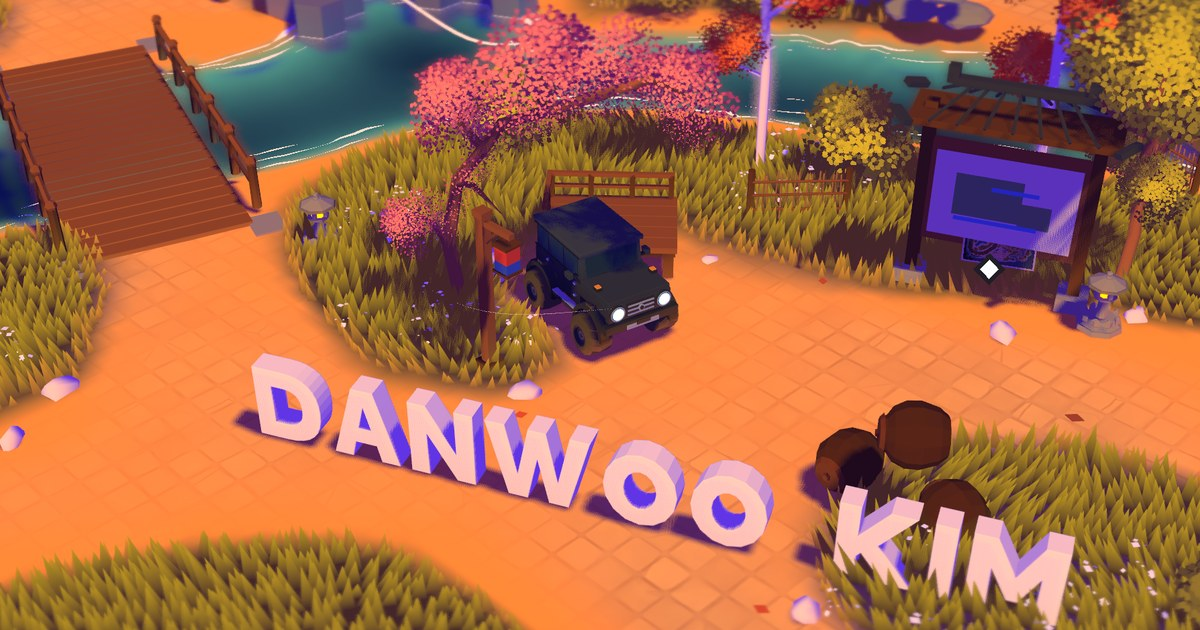
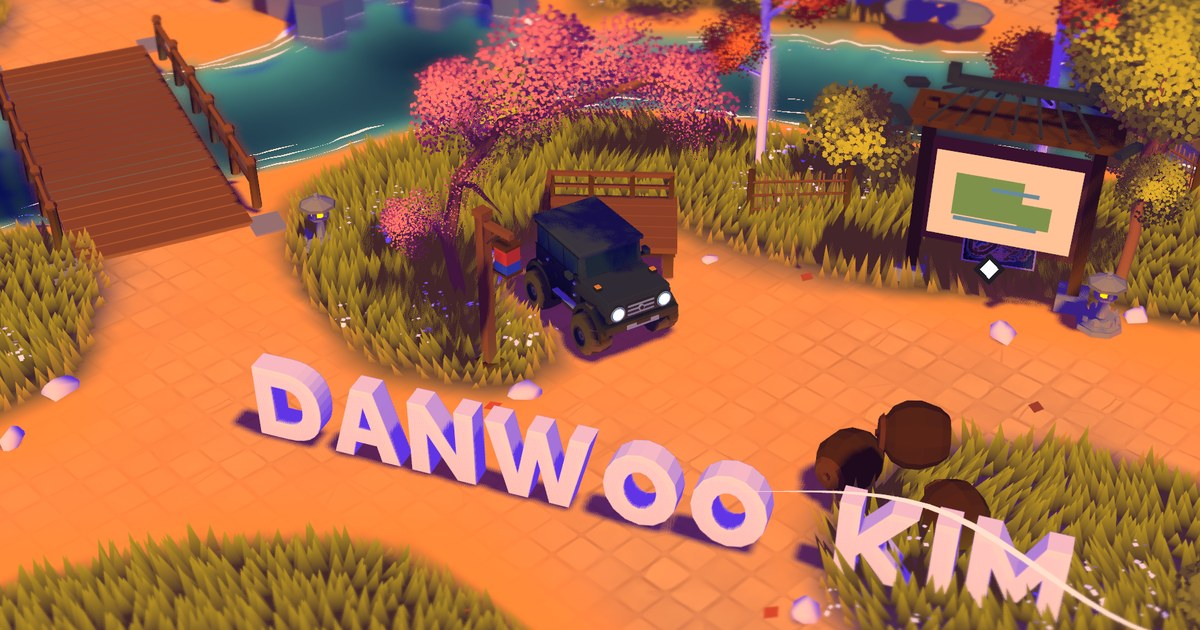
feat(danwoo-island): 허브 등록·한글화·에셋 경량화 (#305)
* feat(hub): 프로젝트 목록에 Danwoo Island 추가

* chore(danwoo-island): 쓰지 않는 월드 에셋을 동기화에서 제외 — wav 원본·압축본 중복·원본 포트폴리오 이미지, 204MB→44MB

* feat(danwoo-island): 메뉴·조작법·지도·월드 표지 문구를 한글로

* chore(danwoo-island): OG 이미지를 게시판 수정 후 장면으로 교체

diff --git a/apps/danwoo-island/src/views/drive/config/controls.ts b/apps/danwoo-island/src/views/drive/config/controls.ts
@@ -13,37 +13,37 @@ export type GamepadControl =
   | { kind: 'shared'; key: string; action: string };
 
 export const KEYBOARD_CONTROLS: readonly KeyControl[] = [
-  { keys: ['WASD', 'ARROWS'], joiner: ' or ', action: 'Move around' },
-  { keys: ['SHIFT'], joiner: '', action: 'Boost' },
-  { keys: ['CTRL LEFT', 'B'], joiner: ' or ', action: 'Brake' },
-  { keys: ['SPACE'], joiner: '', action: 'Jump' },
-  { keys: ['ENTER'], joiner: '', action: 'Interact' },
-  { keys: ['M'], joiner: '', action: 'Map' },
-  { keys: ['L'], joiner: '', action: 'Mute' },
-  { keys: ['R'], joiner: '', action: 'Respawn' },
-  { keys: ['NUM KEYS', 'NUM PAD'], joiner: '/', action: 'Activate hydraulics' },
-  { keys: ['LEFT CLICK (DRAG)'], joiner: '', action: 'Move camera' },
-  { keys: ['H'], joiner: '', action: 'Honk' },
+  { keys: ['WASD', '방향키'], joiner: ' 또는 ', action: '이동' },
+  { keys: ['SHIFT'], joiner: '', action: '부스트' },
+  { keys: ['왼쪽 CTRL', 'B'], joiner: ' 또는 ', action: '브레이크' },
+  { keys: ['SPACE'], joiner: '', action: '점프' },
+  { keys: ['ENTER'], joiner: '', action: '상호작용' },
+  { keys: ['M'], joiner: '', action: '지도' },
+  { keys: ['L'], joiner: '', action: '음소거' },
+  { keys: ['R'], joiner: '', action: '출발 지점으로' },
+  { keys: ['숫자 키', '숫자 패드'], joiner: '/', action: '유압 서스펜션' },
+  { keys: ['왼쪽 클릭 (드래그)'], joiner: '', action: '카메라 이동' },
+  { keys: ['H'], joiner: '', action: '경적' },
 ];
 
 export const TOUCH_CONTROLS: readonly KeyControl[] = [
-  { keys: ['One finger'], joiner: '', action: 'Move the car' },
-  { keys: ['Two fingers'], joiner: '', action: 'Move camera / zoom' },
-  { keys: ['Tap (on the car)'], joiner: '', action: 'Jump' },
+  { keys: ['한 손가락'], joiner: '', action: '차 움직이기' },
+  { keys: ['두 손가락'], joiner: '', action: '카메라 이동·확대' },
+  { keys: ['차를 탭'], joiner: '', action: '점프' },
 ];
 
 export const GAMEPAD_CONTROLS: readonly GamepadControl[] = [
-  { kind: 'paired', xbox: 'B', playstation: { kind: 'icon', icon: 'circle' }, action: 'Boost' },
-  { kind: 'paired', xbox: 'Y', playstation: { kind: 'icon', icon: 'triangle' }, action: 'Jump' },
-  { kind: 'paired', xbox: 'X', playstation: { kind: 'icon', icon: 'square' }, action: 'Brake' },
-  { kind: 'paired', xbox: 'A', playstation: { kind: 'icon', icon: 'cross' }, action: 'Interact / Exit' },
-  { kind: 'paired', xbox: 'LT', playstation: { kind: 'label', label: 'L2' }, action: 'Accelerate' },
-  { kind: 'paired', xbox: 'RT', playstation: { kind: 'label', label: 'R2' }, action: 'Backward accelerate' },
-  { kind: 'paired', xbox: 'LB / RB', playstation: { kind: 'label', label: 'L1 / R1' }, action: 'Hydraulics' },
-  { kind: 'shared', key: 'Joystick Left', action: 'Turn wheels' },
-  { kind: 'shared', key: 'Joystick Left (press)', action: 'Honk' },
-  { kind: 'shared', key: 'Joystick Right', action: 'Move camera' },
-  { kind: 'shared', key: 'Joystick Right (press)', action: 'Zoom in/out' },
-  { kind: 'shared', key: 'Select', action: 'Reset' },
-  { kind: 'shared', key: 'Start', action: 'Pause' },
+  { kind: 'paired', xbox: 'B', playstation: { kind: 'icon', icon: 'circle' }, action: '부스트' },
+  { kind: 'paired', xbox: 'Y', playstation: { kind: 'icon', icon: 'triangle' }, action: '점프' },
+  { kind: 'paired', xbox: 'X', playstation: { kind: 'icon', icon: 'square' }, action: '브레이크' },
+  { kind: 'paired', xbox: 'A', playstation: { kind: 'icon', icon: 'cross' }, action: '상호작용·나가기' },
+  { kind: 'paired', xbox: 'LT', playstation: { kind: 'label', label: 'L2' }, action: '가속' },
+  { kind: 'paired', xbox: 'RT', playstation: { kind: 'label', label: 'R2' }, action: '후진' },
+  { kind: 'paired', xbox: 'LB / RB', playstation: { kind: 'label', label: 'L1 / R1' }, action: '유압 서스펜션' },
+  { kind: 'shared', key: '왼쪽 스틱', action: '조향' },
+  { kind: 'shared', key: '왼쪽 스틱 누르기', action: '경적' },
+  { kind: 'shared', key: '오른쪽 스틱', action: '카메라 이동' },
+  { kind: 'shared', key: '오른쪽 스틱 누르기', action: '확대·축소' },
+  { kind: 'shared', key: 'Select', action: '초기화' },
+  { kind: 'shared', key: 'Start', action: '일시정지' },
 ];

diff --git a/apps/danwoo-island/src/views/drive/ui/OptionsContent.tsx b/apps/danwoo-island/src/views/drive/ui/OptionsContent.tsx
@@ -4,14 +4,14 @@ import { worldAsset } from '../config/worldAsset';
 export function OptionsContent() {
   return (
     <div className="content-inner">
-      <div className="title">Options</div>
+      <div className="title">설정</div>
       <table className="options">
         <tbody>
           <tr>
-            <td>Audio</td>
+            <td>소리</td>
             <td>
               <button className="js-audio-toggle audio-toggle button is-small has-tooltip">
-                <div className="tooltip">Toggles sound</div>
+                <div className="tooltip">소리를 켜고 꺼요</div>
                 <img
                   className="icon icon-audio audio-on"
                   src={worldAsset('ui/audio/audioOn.svg')}
@@ -28,37 +28,37 @@ export function OptionsContent() {
             </td>
           </tr>
           <tr>
-            <td>Quality</td>
+            <td>그래픽</td>
             <td>
               <button className="js-quality-toggle quality-toggle button is-small has-tooltip">
-                <div className="tooltip">Toggles some effects</div>
-                <span>Low</span>
+                <div className="tooltip">일부 효과를 켜고 꺼요</div>
+                <span>낮음</span>
               </button>
             </td>
           </tr>
           <tr>
-            <td>I&apos;m stuck!</td>
+            <td>차가 끼었어요</td>
             <td>
               <button className="js-respawn button is-small has-tooltip">
-                <div className="tooltip">Teleports you to the closest respawn</div>
-                Respawn
+                <div className="tooltip">가까운 출발 지점으로 옮겨요</div>
+                복귀
               </button>
             </td>
           </tr>
           <tr>
-            <td>Reset</td>
+            <td>초기화</td>
             <td>
               <button className="js-reset button is-small has-tooltip">
-                <div className="tooltip">Resets every object</div>
-                Reset
+                <div className="tooltip">모든 물건을 제자리로 돌려요</div>
+                초기화
               </button>
             </td>
           </tr>
           <tr>
-            <td>Renderer</td>
+            <td>렌더러</td>
             <td>
               <button className="js-renderer button is-small is-disabled is-success has-tooltip">
-                <div className="js-tooltip tooltip">Best for performance</div>
+                <div className="js-tooltip tooltip">성능이 가장 좋아요</div>
                 <span>WebGPU</span>
               </button>
             </td>

diff --git a/apps/danwoo-island/src/views/drive/lib/engine/Game/Map.js b/apps/danwoo-island/src/views/drive/lib/engine/Game/Map.js
@@ -48,17 +48,17 @@ export class Map
     {
         this.locations = {}
         this.locations.items = [
-            { name: 'Altar', respawnName: 'altar', offset: { x: 0, y: -0.05 } },
-            { name: 'Behind\nthe scene', respawnName: 'behindTheScene', offset: { x: 0.01, y: 0 } },
-            { name: 'Bowling', respawnName: 'bowling', offset: { x: -0.08, y: 0.03 } },
-            { name: 'Profile / Resume', respawnName: 'career', offset: { x: 0, y: -0.06 } },
-            { name: 'Circuit', respawnName: 'circuit', offset: { x: -0.08, y: -0.05 } },
-            { name: 'Cookie', respawnName: 'cookie', offset: { x: -0.02, y: -0.01 } },
+            { name: '서낭당', respawnName: 'altar', offset: { x: 0, y: -0.05 } },
+            { name: '크레딧', respawnName: 'behindTheScene', offset: { x: 0.01, y: 0 } },
+            { name: '볼링장', respawnName: 'bowling', offset: { x: -0.08, y: 0.03 } },
+            { name: '소개·이력서', respawnName: 'career', offset: { x: 0, y: -0.06 } },
+            { name: '서킷', respawnName: 'circuit', offset: { x: -0.08, y: -0.05 } },
+            { name: '포장마차', respawnName: 'cookie', offset: { x: -0.02, y: -0.01 } },
             { name: 'Danwoo Lab', respawnName: 'lab', offset: { x: -0.03, y: 0 } },
-            { name: 'Landing', respawnName: 'landing', offset: { x: 0.02, y: 0 } },
-            { name: 'Projects', respawnName: 'projects', offset: { x: 0, y: -0.02 } },
-            { name: 'Social', respawnName: 'social', offset: { x: -0.01, y: -0.04 } },
-            { name: 'Lab Portal', respawnName: 'timeMachine', offset: { x: 0, y: 0 } },
+            { name: '출발점', respawnName: 'landing', offset: { x: 0.02, y: 0 } },
+            { name: '프로젝트', respawnName: 'projects', offset: { x: 0, y: -0.02 } },
+            { name: '소셜', respawnName: 'social', offset: { x: -0.01, y: -0.04 } },
+            { name: 'Lab 포털', respawnName: 'timeMachine', offset: { x: 0, y: 0 } },
         ]
 
         for(const item of this.locations.items)

diff --git a/apps/danwoo-island/src/views/drive/lib/engine/Game/Options.js b/apps/danwoo-island/src/views/drive/lib/engine/Game/Options.js
@@ -27,7 +27,7 @@ export class Options
     {
         const element = this.element.querySelector('.js-quality-toggle')
         const text = element.querySelector('span')
-        text.textContent = this.game.quality.level === 0 ? 'High' : 'Low'
+        text.textContent = this.game.quality.level === 0 ? '높음' : '낮음'
 
         element.addEventListener('click', () =>
         {
@@ -36,7 +36,7 @@ export class Options
 
         this.game.quality.events.on('change', () =>
         {
-            text.textContent = this.game.quality.level === 0 ? 'High' : 'Low'
+            text.textContent = this.game.quality.level === 0 ? '높음' : '낮음'
         })
     }
 
@@ -74,7 +74,7 @@ export class Options
             text.textContent = 'WebGL'
 
             const tooltip = element.querySelector('.js-tooltip')
-            tooltip.replaceChildren('Your browser is ', createElement('strong', '', [ 'not compatible' ]), ' with WebGPU resulting in performance loss')
+            tooltip.replaceChildren('이 브라우저는 WebGPU를 ', createElement('strong', '', [ '지원하지 않아' ]), ' 성능이 낮아질 수 있어요')
         }
     }
 

diff --git a/apps/danwoo-island/src/views/drive/lib/engine/Game/World/Areas/LandingArea.js b/apps/danwoo-island/src/views/drive/lib/engine/Game/World/Areas/LandingArea.js
@@ -50,7 +50,7 @@ export class LandingArea extends Area
         // Interactive point
         const interactivePoint = this.game.interactivePoints.create(
             this.references.items.get('kioskInteractivePoint')[0].position,
-            'Map',
+            '지도',
             InteractivePoints.ALIGN_RIGHT,
             InteractivePoints.STATE_CONCEALED,
             () =>
@@ -84,7 +84,7 @@ export class LandingArea extends Area
         // Interactive point
         const interactivePoint = this.game.interactivePoints.create(
             this.references.items.get('controlsInteractivePoint')[0].position,
-            'Controls',
+            '조작법',
             InteractivePoints.ALIGN_RIGHT,
             InteractivePoints.STATE_CONCEALED,
             () =>
@@ -224,7 +224,7 @@ export class LandingArea extends Area
         // Interactive point
         this.game.interactivePoints.create(
             this.references.items.get('bonfireInteractivePoint')[0].position,
-            'Res(e)t',
+            '초기화',
             InteractivePoints.ALIGN_RIGHT,
             InteractivePoints.STATE_CONCEALED,
             () =>

diff --git a/apps/danwoo-island/src/views/drive/lib/engine/Game/World/Areas/BowlingArea.js b/apps/danwoo-island/src/views/drive/lib/engine/Game/World/Areas/BowlingArea.js
@@ -231,7 +231,7 @@ export class BowlingArea extends Area
     {
         this.restartInteractivePoint = this.game.interactivePoints.create(
             this.references.items.get('restartInteractivePoint')[0].position,
-            'Restart',
+            '다시 하기',
             InteractivePoints.ALIGN_RIGHT,
             InteractivePoints.STATE_HIDDEN,
             () =>
@@ -391,7 +391,7 @@ export class BowlingArea extends Area
         // Interactive point
         this.game.interactivePoints.create(
             this.references.items.get('bumpersInteractivePoint')[0].position,
-            'Bumpers',
+            '범퍼',
             InteractivePoints.ALIGN_LEFT,
             InteractivePoints.STATE_CONCEALED,
             () =>
@@ -484,7 +484,7 @@ export class BowlingArea extends Area
         // Interactive point
         this.game.interactivePoints.create(
             this.references.items.get('jukeboxInteractivePoint')[0].position,
-            'Change song',
+            '노래 바꾸기',
             InteractivePoints.ALIGN_LEFT,
             InteractivePoints.STATE_CONCEALED,
             () =>

diff --git a/apps/danwoo-island/src/views/drive/ui/CircuitContent.tsx b/apps/danwoo-island/src/views/drive/ui/CircuitContent.tsx
@@ -11,7 +11,7 @@ export function CircuitContent() {
               fill="#ffffff"
             />
           </svg>{' '}
-          Restart
+          다시 시작
         </button>{' '}
         <button className="js-button-end button">
           <svg className="icon icon-flag" width="23" height="20" viewBox="0 0 23 20" fill="none">
@@ -20,7 +20,7 @@ export function CircuitContent() {
               fill="#ffffff"
             />
           </svg>{' '}
-          End
+          그만하기
         </button>{' '}
         <button className="js-button-controls button">
           <svg className="icon icon-controller" width="34" height="22" viewBox="0 0 34 22" fill="none">
@@ -29,7 +29,7 @@ export function CircuitContent() {
               fill="#ffffff"
             />
           </svg>{' '}
-          Controls
+          조작법
         </button>
       </div>
     </div>

diff --git a/apps/danwoo-island/src/views/drive/ui/ControlsContent.tsx b/apps/danwoo-island/src/views/drive/ui/ControlsContent.tsx
@@ -3,9 +3,9 @@ import { GamepadControlRow } from './GamepadControlRow';
 import { KeyControlRow } from './KeyControlRow';
 
 const CONTROL_TABS = [
-  { name: 'mouse-keyboard', label: 'Mouse Keyboard' },
-  { name: 'touch', label: 'Mobile Tablet' },
-  { name: 'gamepad', label: 'Gamepad' },
+  { name: 'mouse-keyboard', label: '키보드·마우스' },
+  { name: 'touch', label: '모바일·태블릿' },
+  { name: 'gamepad', label: '게임패드' },
 ] as const;
 
 export function ControlsContent() {

diff --git a/apps/danwoo-island/src/views/drive/lib/engine/Game/World/Areas/CareerArea.js b/apps/danwoo-island/src/views/drive/lib/engine/Game/World/Areas/CareerArea.js
@@ -186,7 +186,7 @@ export class CareerArea extends Area
         position.y = 1
         this.interactivePoint = this.game.interactivePoints.create(
             position,
-            'View Resume',
+            '이력서 보기',
             InteractivePoints.ALIGN_RIGHT,
             InteractivePoints.STATE_CONCEALED,
             () => window.open(content.resumeUrl, '_blank', 'noopener,noreferrer'),

diff --git a/apps/hub/src/views/home/model/constants/projects.ts b/apps/hub/src/views/home/model/constants/projects.ts
@@ -48,4 +48,11 @@ export const PROJECTS: Project[] = [
     image: '/projects/komorebi-cover.webp',
     imagePosition: 'center',
   },
+  {
+    title: 'Danwoo Island',
+    description: '한국 섬마을을 검정 SUV로 달리며 프로젝트를 둘러봐요',
+    href: 'https://world.danwoo.dev/',
+    image: '/projects/danwoo-island-cover.webp',
+    imagePosition: 'center',
+  },
 ];

diff --git a/apps/danwoo-island/src/views/drive/lib/engine/Game/World/Areas/TimeMachineArea.js b/apps/danwoo-island/src/views/drive/lib/engine/Game/World/Areas/TimeMachineArea.js
@@ -19,7 +19,7 @@ export class TimeMachineArea extends Area
     {
         this.interactivePoint = this.game.interactivePoints.create(
             this.references.items.get('interactivePoint')[0].position,
-            'Visit Danwoo Lab',
+            'Danwoo Lab 가기',
             InteractivePoints.ALIGN_RIGHT,
             InteractivePoints.STATE_CONCEALED,
             () =>

diff --git a/apps/danwoo-island/src/views/drive/lib/engine/Game/World/Areas/BehindTheSceneArea.js b/apps/danwoo-island/src/views/drive/lib/engine/Game/World/Areas/BehindTheSceneArea.js
@@ -116,7 +116,7 @@ export class BehindTheSceneArea extends Area
     {
         this.interactivePoint = this.game.interactivePoints.create(
             this.references.items.get('interactivePoint')[0].position,
-            'Behind the scene',
+            '크레딧',
             InteractivePoints.ALIGN_RIGHT,
             InteractivePoints.STATE_CONCEALED,
             () =>
